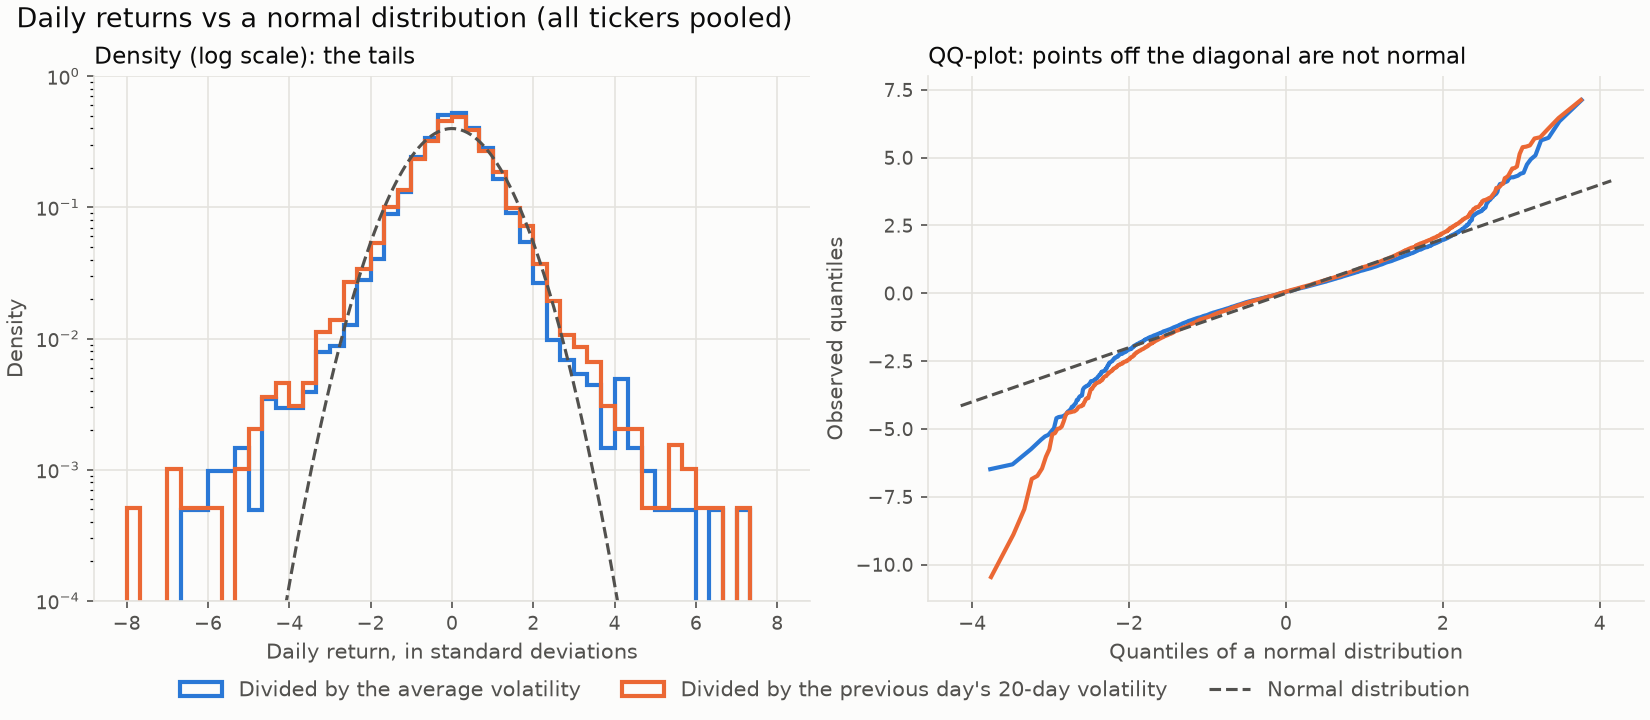
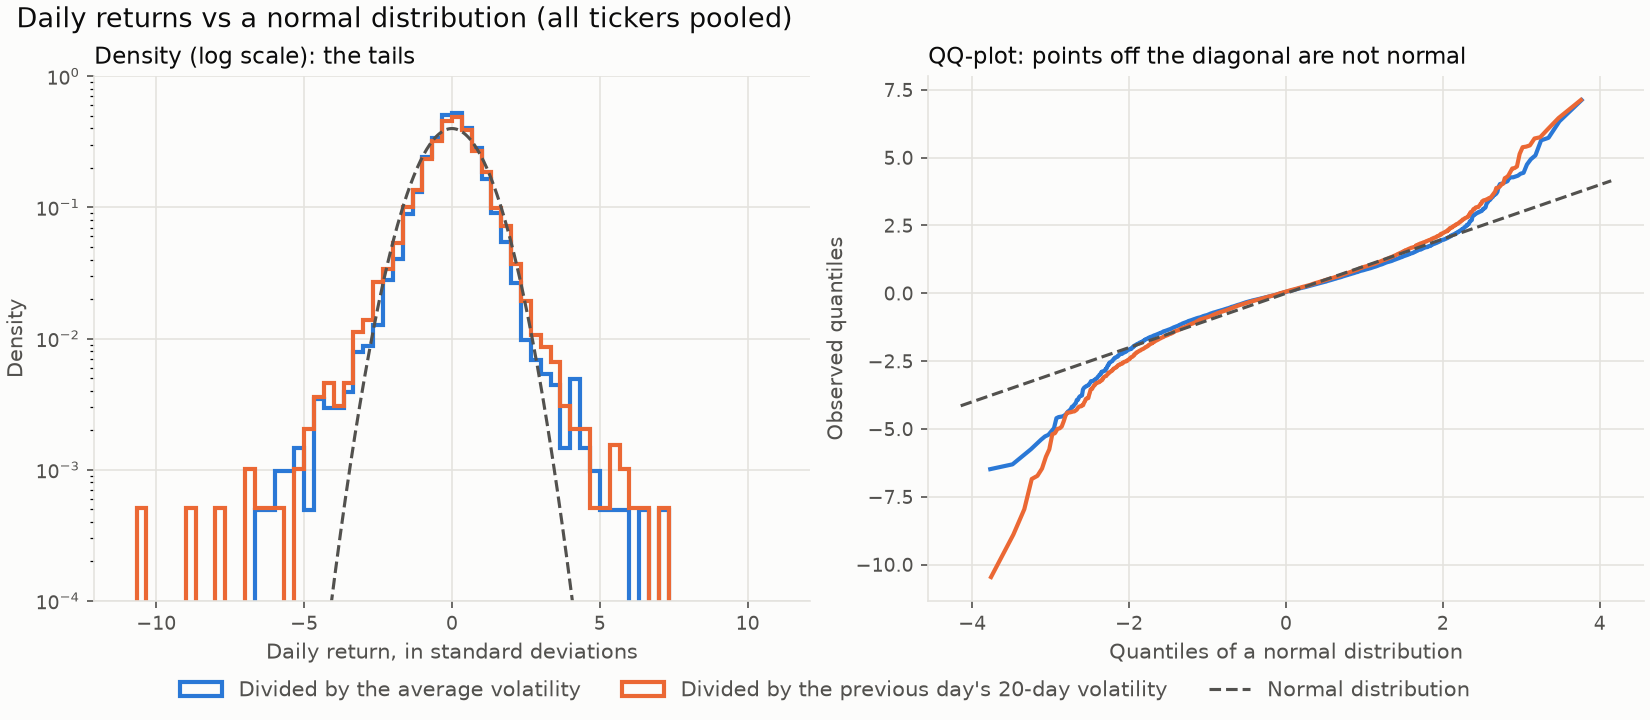
feat(ml): add return distribution figure

Changed region(s): [[0.0618, 0.1528, 0.4636, 0.8861], [0.4327, 0.8556, 0.4636, 0.8861]]

diff --git a/ml/analysis/return_distribution.py b/ml/analysis/return_distribution.py
@@ -36,7 +36,7 @@ SERIES = {
     "z_unconditional": ("#2a78d6", "Divided by the average volatility"),
     "z_conditional": ("#eb6834", "Divided by the previous day's 20-day volatility"),
 }
-HISTOGRAM_RANGE = (-8.0, 8.0)
+HISTOGRAM_RANGE = (-11.0, 11.0)
 
 
 def compute_return_stats(df: pd.DataFrame, column: str = "return") -> pd.DataFrame:
@@ -90,7 +90,7 @@ def plot_return_distribution(df: pd.DataFrame, path: Path) -> None:
     normal = NormalDist()
     fig = Figure(figsize=(11, 4.8), facecolor=SURFACE, layout="constrained")
     density_ax, qq_ax = fig.subplots(1, 2)
-    bins = np.linspace(*HISTOGRAM_RANGE, 49)
+    bins = np.linspace(*HISTOGRAM_RANGE, 67)
 
     for column, (color, label) in SERIES.items():
         z = np.sort(df[column].dropna().to_numpy())
